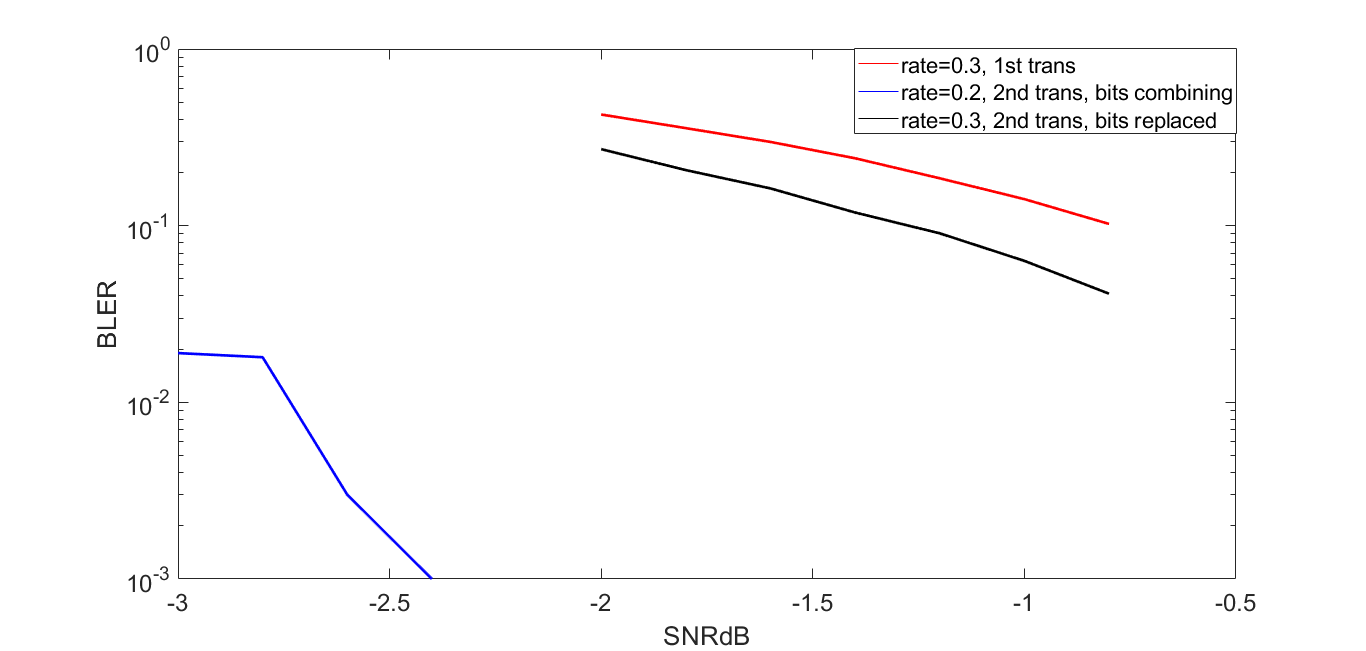
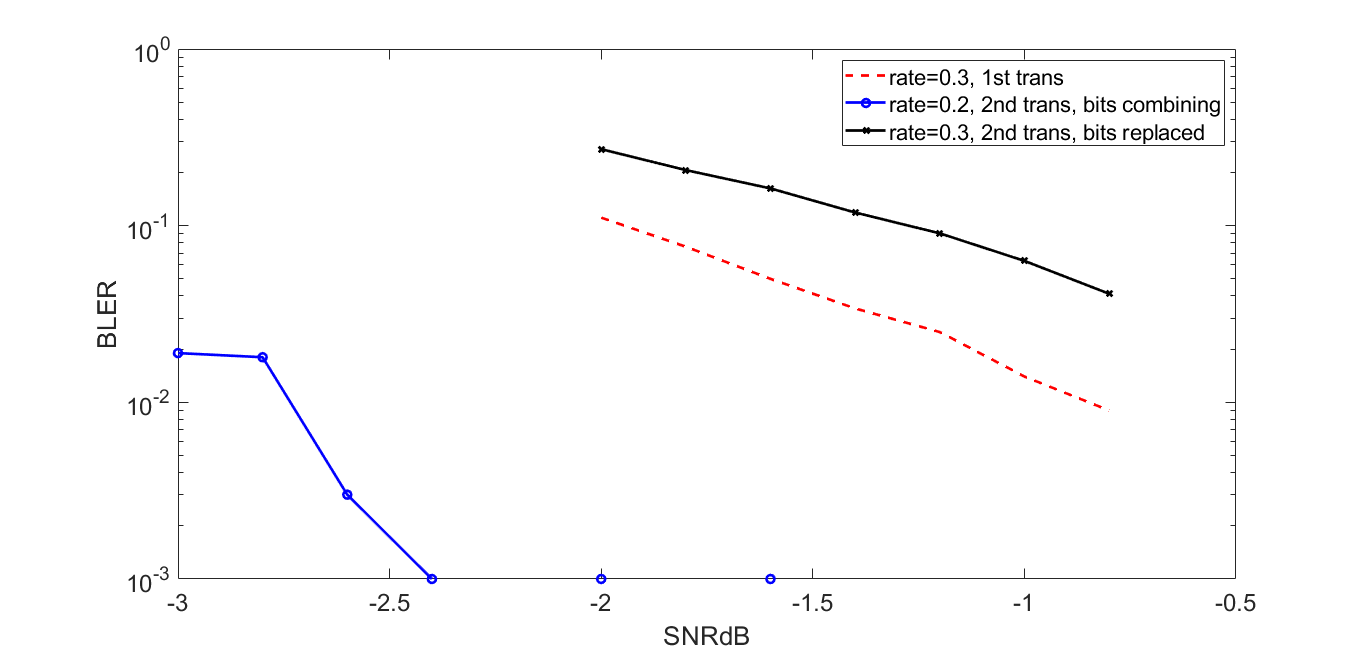
Add files via upload

diff --git a/Control and data channel combining/Control and data combining.tex b/Control and data channel combining/Control and data combining.tex
@@ -10,6 +10,11 @@
 \usepackage{verbatim}
 \usepackage[top=0.75in, bottom=1in, left=0.66in, right=0.66in]{geometry}
 
+%KHOA BEGIN
+\usepackage{multirow}
+\usepackage{array}
+%KHOA END
+
 %\usepackage{geometry}
 %\geometry{tmargin=0.725in}
 
@@ -100,7 +105,7 @@ PDCCH feedback is proposed in \cite{b4} to speed up PDCCH repetition. A PDCCH fe
 
 In \cite{b5}, PDCCH repetitions are generated by puncturing PDSCH of the eMBB UEs. This method increases the performance of PDCCH and decreases the blocking probability. Nevertheless, the performance of the eMBB UEs drops substantially due to the loss of the punctured bits\textquotesingle \, information.
 
-In this work, a repetition-based downlink transmission scheme with a smart combining of PDCCHs and PDSCHs is described. Firstly, latency and reliability requirements of URLLC are analyzed in Section II. Section III is going to explain in detail the scheme and the techniques to implement it. The simulation results are illustrated in Section IV. Finally, Section V provides a plan of future work and Section VI is the concluding remarks.
+In this work, a repetition-based downlink transmission scheme with a smart combining of PDCCHs and PDSCHs is described. Firstly, latency and reliability requirements of URLLC are analyzed in Section II. Section III is going to explain in detail the scheme and the techniques to implement it. The simulation results are illustrated in Section IV. Finally, Section V is the concluding remarks.
 
 \section{URLLC requirements}
 The requirement for URLLC is specified in \cite{b6}: ``A general URLLC reliability requirement for one transmission of a packet is 10\textsuperscript{-5} for 32 bytes with a user plane latency of 1ms''.
@@ -209,18 +214,16 @@ The saving resource becomes significantly important when many UEs share resource
 
 \subsection{Containing the complexity of blind decode for PDCCH combining}\label{DD}
 
-The scheme in \ref{AA} and \ref{BB} requires the UE to combine multiple PDCCHs from different control occasions. This presents a challenge to UE blind decoding complexity if no additional constraints on PDCCH mapping are enforced. In principle, the location of PDCCH is unknown to a UE so each UE must perform blind decode until it finds a DCI that passes the CRC. When a UE is not able to decode a DCI on PDCCH, the UE is not certain if it failed to decode a DCI or if there was no DCI intended for that UE. 
-
-In the PDCCH combining, the complexity of blind decode becomes more severe when the number of blind decodes grows remarkably. The UE monitors the current control resource to determine by blind decoding if a new DCI for the UE is received in the slot. If the UE fails to detect a PDCCH intended for it, it combines the current monitored occasion with the previous stored occasion for a potential combining. The number of stored occasion is limited to 1 to reduce memory and energy consumption. Fig.~\ref{fig4}\subref{4a} shows this results in a large number of blind decode combinations of the different PDCCH candidates. In a fully exhaustive scheme, the maximum number of combinations is the product of PDCCH candidates in two control occasions. 
+The scheme in Section \ref{AA} and \ref{BB} requires the UE to combine multiple PDCCHs from different control occasions. This presents a challenge to UE blind decoding complexity if no additional constraints on PDCCH mapping are enforced. In principle, the location of PDCCH is unknown to a UE so each UE must perform blind decode until it finds a DCI that passes the CRC. In the PDCCH combining, the complexity of blind decode becomes more severe when the number of blind decodes grows remarkably. The UE monitors the current control resource to determine by blind decoding if a new DCI for the UE is received in the slot. If the UE fails to detect a PDCCH intended for it, it combines the current monitored occasion with the previous stored occasion for a potential combining. The number of stored occasion is limited to 1 to reduce memory and energy consumption. Fig.~\ref{fig4}\subref{4a} shows this results in a large number of blind decode combinations of the different PDCCH candidates. In a fully exhaustive scheme, the maximum number of combinations is the product of PDCCH candidates in two control occasions. 
 
 \begin{figure}[htbp]
 \centering
 \subfloat[No mapping.\label{4a}]{%
-\includegraphics[scale=0.32]{fig4.png}}
+\includegraphics[width=41mm,height=20mm]{fig4.png}}
 \hfill
 \qquad
 \subfloat[One-to-one mapping.\label{4b}]{%
-\includegraphics[scale=0.32]{fig5.png}}
+\includegraphics[width=41mm,height=20mm]{fig5.png}}
 \hfill
 
 \caption{Combining of blind decode candidates.}
@@ -258,18 +261,42 @@ There still exists the challenges and some prerequisites that need to be standar
 The simulation is performed in link level. Polar code is used to encode the input codeword (DCI) with 48 bits consisting of 24 information bits and 24 CRC bits. The encoding mechanism of the encoder follows 3GPP standard \cite{b8}. The code rates 0.3 and 0.2 are used in different scenarios. The output codeword is modulated in QPSK and transmitted in channel. SCS is 60kHz. The decoder calculates LLRs and uses them to decode the receiving signal. The decoder is min-sum Successive cancellation list (SCL) decoder with list size 8 \cite{b9}.
 
 \begin{figure}[htbp]
-\centerline{\includegraphics[scale=0.25]{fig8.png}}
+\centerline{\includegraphics[width=80mm,height=30mm]{fig8.png}}
 \caption{BLER of conventional and proposed schemes.}
 \label{fig8}
 \end{figure}
 
 Fig.~\ref{fig8} shows a comparison between the initial transmissions of two schemes. The first scheme is a conventional one where a long packet with low rate 0.2 containing 240 bits is used straightaway for the initial transmission. The second one is the proposed scheme where a short packet with higher rate 0.3 containing 160 bits is used in the initial transmission. Subsequently, if the initial packet is not decoded correctly, the gNB will only sends 80 additional bits so that the UE can combine these 80 bits and the initial stored 160 bits to create a packet with 240 bits as the conventional scheme. 
 
-As can be seen at SNR -2dB, BLERs of the conventional scheme with long packet and the combining scheme with short packet are 0.001 and 0.14, respectively. This means that in 1000 times, the conventional scheme succeeds 999 times while the combining scheme succeeds 860 times without a need of retransmisison and combining. Thereby, by using the combining scheme, the system can save time and frequency resources in 860 times. There are 80 bits saved each time and 80 $\times$ 860 = 68800 bits saved in total. In QPSK modulation, a resource element (RE) is allocated to two bits so 80 bits are equivalent to 40 REs being approximate to 4 physical resource blocks (PRB). With SCS being 60kHz, one PRB occupies a bandwidth of 60kHz $\times$ 12 = 720kHz. Thus, in each transmission, a bandwidth of 720kHz $\times$ 4 = 2880kHz = 2.88MHz is spared and can be allocated to other UEs so that the blocking probability of other UEs as well the UE of interest itself decreases.
+As can be seen at SNR -2dB, BLERs of the conventional scheme with long packet and the combining scheme with short packet are 0.001 and 0.14, respectively. This means that in 1000 times, the conventional scheme succeeds 999 times while the combining scheme succeeds 860 times without a need of retransmisison and combining. Thereby, by using the combining scheme, the system can save time and frequency resources in 860 times. There are 80 bits saved each time. In QPSK modulation, a resource element (RE) is allocated to two bits so 80 bits are equivalent to 40 REs being approximate to 4 physical resource blocks (PRB). With SCS being 60kHz, one PRB occupies a bandwidth of 720kHz. Thus, in each transmission, a bandwidth of 2.88MHz is spared and can be allocated to other UEs so that the blocking probability of other UEs as well as the UE of interest itself decreases.
 
-The proposed scheme also brings an efficiency of resource consumption compared to other schemes applying retransmission and combining in \cite{b3} and \cite{b4}. In the proposed scheme, only 80 additional bits are transmitted in the second time so in total there are 240 bits transmitted in case of the initial transmission's failure (140 times in 1000 times). While in other schemes with conventional HARQ process, an entire packet with lower rate 0.2 containing 240 bits is transmitted in the retransmission after the initial packet's failure with rate 0.3 and 160 bits. In total, there are 160 + 240 = 400 bits transmitted. Thus, the proposed scheme uses 60$\%$ less bits than other schemes in prior art while attaining the same reliability.
+The proposed scheme also brings an efficiency of resource consumption compared to other schemes applying retransmission and combining in \cite{b3} and \cite{b4}. In the proposed scheme, in total there are 240 bits transmitted in case of the initial transmission's failure (140 times in 1000 times). While in other schemes with conventional HARQ process, an entire packet with lower rate 0.2 containing 240 bits is transmitted in the retransmission after the initial packet's failure with rate 0.3 and 160 bits. In total, there are 400 bits transmitted.
 
-In 140 times, the conventional scheme succeeds in the first transmission while the combining scheme fails and a retransmission is required so that the packets can be combined to have rate 0.2 as the conventional scheme and achieves target reliability. It leads to latency in the proposed scheme including HARQ feedback's transmission time, transmission time interval of retransmission and processing time of the combined packet. HARQ feedback consumes 1 OFDM symbol. If PDCCH is not decoded, the gNB waits after the normal time for an appearance of feedback to decide PDCCH failure and retransmits the additional bits of both PDCCH and PDSCH. These PDCCH and PDSCH are short versions as mentioned in Section \ref{BB} and only consumes 3 OFDM symbols. The maximum processing time of the decoder to decode the combined PDCCH anf PDSCH is 0.125ms equivalent to 7 OFDM symbols with SCS 60kHz (one slot with SCS 60kHz has 14 OFDM symbols spreading in 0.25ms). Therefore, latency in 140 times over 1000 times of the proposed scheme is at least 11 OFDM symbols more than the conventional schemes. This amount is approximate to 1 slot with 0.25 ms that is still acceptable in the scheme with maximum two transmission (one initial transmisison and one retransmission) to achieve the latency requirement 1ms of URLLC.
+In 140 times, the conventional scheme succeeds in the first transmission while the combining scheme fails and a retransmission is required so that the packets can be combined to have rate 0.2 as the conventional scheme and achieves target reliability. It leads to latency in the proposed scheme including HARQ feedback's transmission time, transmission time interval of retransmission and processing time of the combined packet. HARQ feedback consumes 1 OFDM symbol. If PDCCH is not decoded, the gNB waits after the normal time for an appearance of feedback to decide PDCCH failure and retransmits the additional bits of both PDCCH and PDSCH. These PDCCH and PDSCH are short versions as mentioned in Section \ref{BB} and only consumes 3 OFDM symbols. The maximum processing time of the decoder to decode the combined PDCCH anf PDSCH is 0.125ms equivalent to 7 OFDM symbols with SCS 60kHz (one slot with SCS 60kHz has 14 OFDM symbols spreading in 0.25ms). Therefore, latency in 140 times over 1000 times of the proposed scheme is at least 11 OFDM symbols more than the conventional schemes. This amount is approximate to 1 slot with 0.25 ms that is still acceptable to achieve the latency requirement 1ms of URLLC.
+
+Table~\ref{tab1} summarizes the above calculation and shows resource consumption over 1000 packets of three schemes to achieve the same reliability.
+
+\begin{table}[htbp]
+\caption{Resource and latency comparison over 1000 packet}
+\begin{center}
+\begin{tabular}{ |p{4.6em}|p{2em}|p{2em}|p{2em}|p{2em}|p{2em}|p{2em}|p{2.8em}|}
+ \hline
+ \multirow{2}{6em}{} & \multicolumn{3}{p{6em}}{\textbf{$1^{st}$ transmission's success}}& \multicolumn{3}{|p{6em}|}{\textbf{$2^{nd}$ transmission's success}}& \multirow{2}{6em}{\textbf{Total resource}}\\\cline{2-7}
+ &\textbf{Quant} & \textbf{Res (REs)}&\textbf{Lat (ms)}&\textbf{Quant} & \textbf{Res}&\textbf{Lat (ms)} \\
+ \hline
+ Conventional&$999$&$120$& $0.25$& $0$& $0$ & $0$ &$119880$\\
+ \hline
+ Prior art\cite{b3} and \cite{b4} &$860$&$80$& $0.25$& $139$& $120$ &  $0.5$&$96600$\\
+  \hline
+ Proposed scheme &$860$&$80$&$0.25$ & $139$& $40$ &  $0.5$&$85480$\\
+ 
+ 
+
+ \hline
+\end{tabular}
+\label{tab1}
+\end{center}
+\end{table}
 
 \begin{comment}
 Fig.~\ref{fig8} shows BLER of PDCCH combining in comparison to the legacy NR scheme. In the first transmission, the output codeword on PDCCH with code rate 0.3 has 160 bits and is transmitted to the receiver. In the second transmission, a lower code rate 0.2 is used to generate a longer output codeword corresponding to 240 bits but only the additional bits due to a lower code rate are transmitted. For this reason, only 80 bits instead of 240 bits are transmitted in the second transmission. At the decoder, the LLRs of the first transmission and the second transmission are combined and the decoder decodes the codeword with the rate 0.2. The performance of the combined codeword represented by the blue curve is remarkably better than that of the transmission as in the legacy NR scheme represented by the red curve with a margin being about 2dB. This means that the information of the additional bits in the second transmission increases the reliability of PDCCH transmission without consuming much resources for the second transmission of the whole PDCCH with a higher AL as in the conventional scheme as shown in \ref{CC}. When $P^{e}_{c}$ in \eqref{eq2} decreases, the whole transmission's reliability increases.  
@@ -281,10 +308,7 @@ Fig.~\ref{fig8} shows BLER of PDCCH combining in comparison to the legacy NR sch
 \label{fig9}
 \end{figure}
 
-Fig.~\ref{fig9} shows BLER of PDCCH combined with the additional bits compared to that of PDCCH where half of bits are replaced by the bits in the better retransmission channel. The BLER of the codeword with replaced bits (black curve) is better than the first codeword (red curve) but is much worse than the codeword combined  with the additional bits (blue curve) with a margin of 2dB. Thus, in the retransmission, the additional bits due to a lower code rate should be transmitted to combine with the first codeword so the decoder works with a codeword with a lower rate and can achieve better BLER.
-
-\section{Future work}
-The more exact quantifications of the proposed scheme will be done in the system simulator with a help of URLLC abstraction.
+Fig.~\ref{fig9} shows BLER of PDCCH combined with the additional bits compared to that of PDCCH where half of bits are replaced by the bits in the better retransmission channel. The BLER of the codeword with replaced bits (black curve with cross marker) is better than the first codeword (dashed line red curve) but is much worse than the codeword combined  with the additional bits (blue curve with circle marker) with a margin of 2dB. Thus, in the retransmission, the additional bits due to a lower code rate should be transmitted to combine with the first codeword so the decoder works with a codeword with a lower rate and can achieve better BLER.
 
 \section{Conclusion}
 
